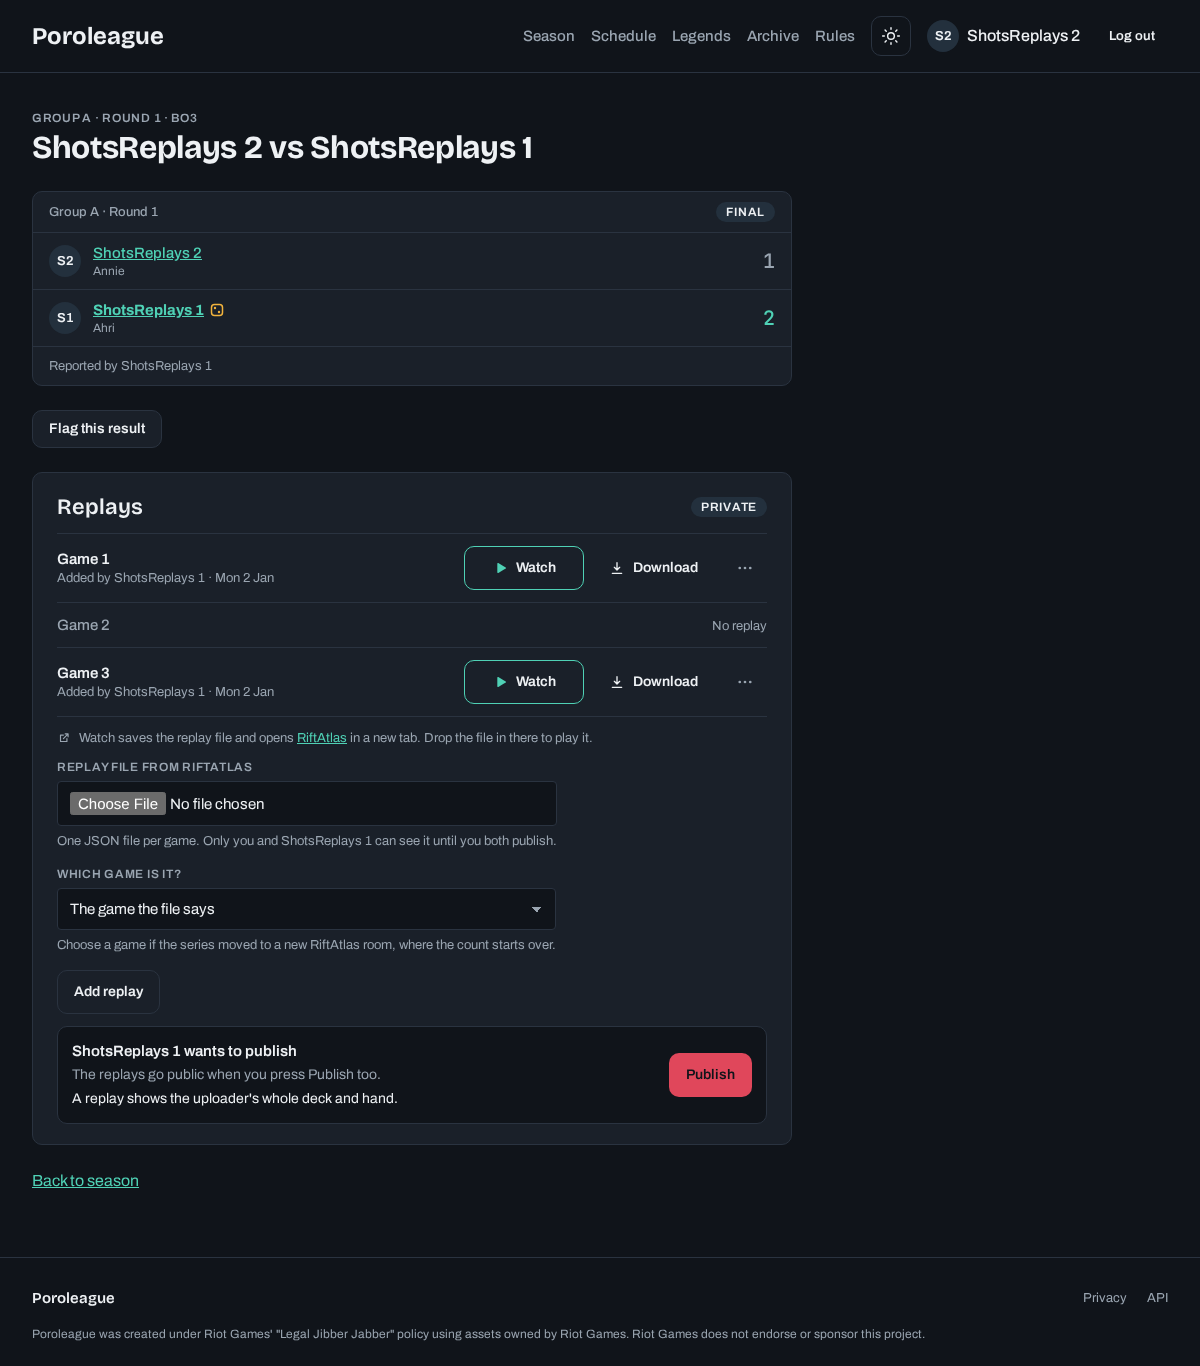
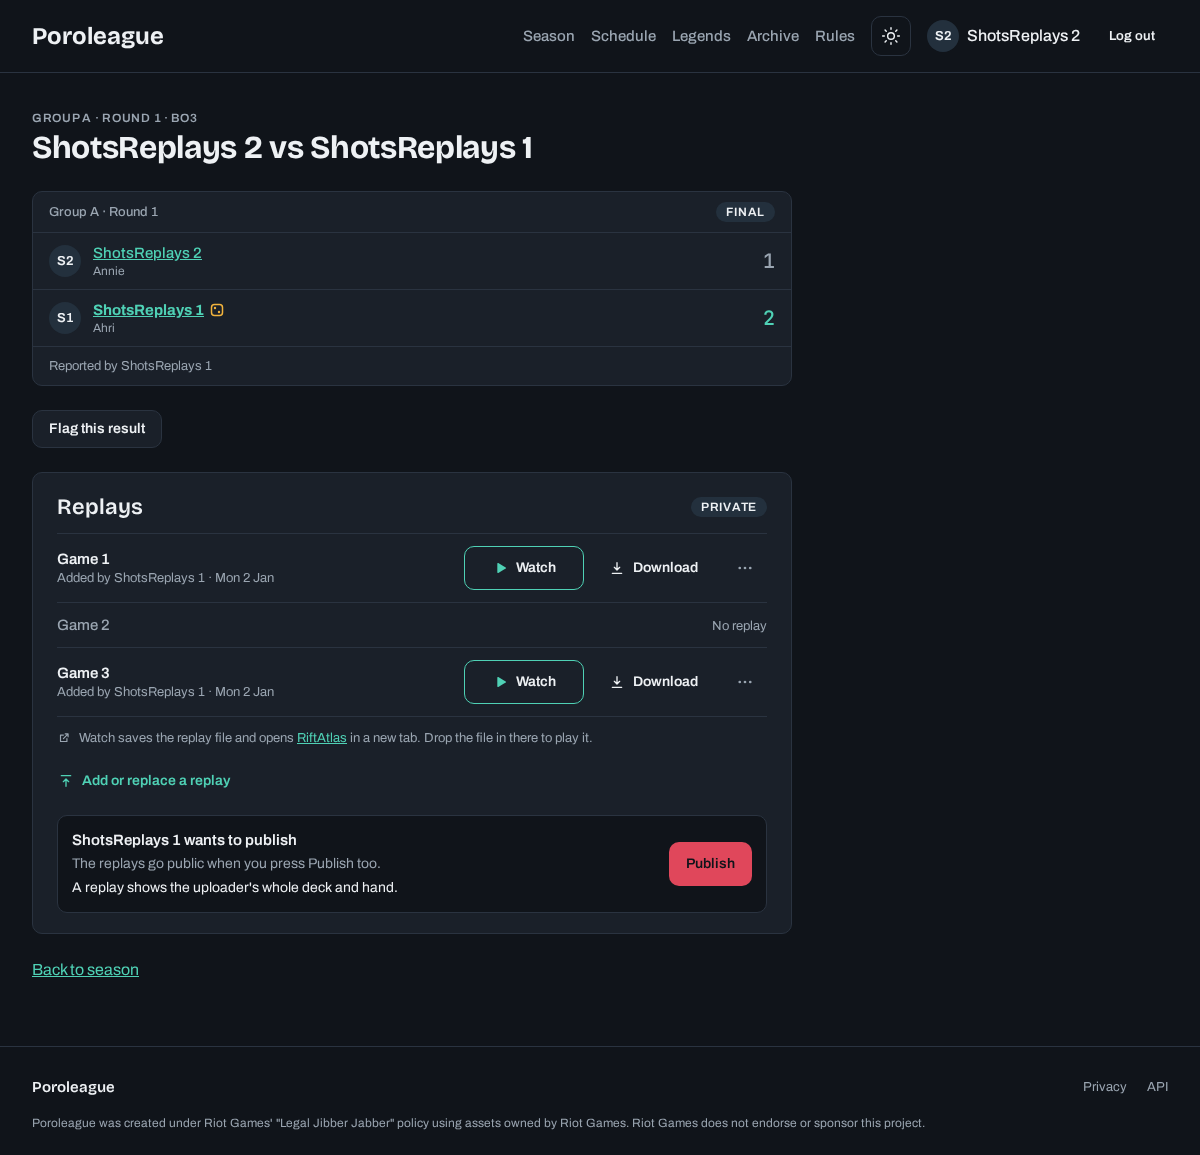
feat(replays): screenshot the upload form and the which-game step

diff --git a/shots/replays.spec.ts b/shots/replays.spec.ts
@@ -1,5 +1,5 @@
-// The replay panel in states the main pages don't show: a pressed Watch and the row menu, and one
-// player's Publish.
+// The replay panel in states the main pages don't show: a pressed Watch and the row menu, the upload
+// form and its which-game step, and one player's Publish.
 import { test } from '@playwright/test';
 import {
 	freezeTimes,
@@ -10,6 +10,7 @@ import {
 	seedSeason
 } from '../e2e/db.ts';
 import { ORGANIZER, SEASONS, player } from '../e2e/fixtures.ts';
+import { replayFile } from '../src/lib/server/test/replayFile.ts';
 import { NOW, day } from './now.ts';
 import { shot } from './shot.ts';
 
@@ -34,6 +35,29 @@ test('a match with replays, after pressing Watch', async ({ browser }) => {
 			await page.getByRole('link', { name: 'Watch game 1' }).click();
 			await page.getByRole('status').waitFor();
 			await page.getByLabel('More for game 3').click();
+		}
+	);
+	const url = `/seasons/${SEASONS.shotsReplays}/matches/${match}`;
+	await shot(browser, 'player-match-replays-upload', url, player('shotsReplays', 1), (page) =>
+		page.getByText('Add or replace a replay').click()
+	);
+	// A second file that says "game 1": nothing is stored, so both views get the same step.
+	await shot(
+		browser,
+		'player-match-replays-which',
+		url,
+		player('shotsReplays', 1),
+		async (page) => {
+			await page.getByText('Add or replace a replay').click();
+			await page.getByLabel('Replay file').setInputFiles({
+				name: 'riftatlas-replay-game-1.json',
+				mimeType: 'application/json',
+				buffer: Buffer.from(
+					replayFile({ replayId: 'room2', legends: ['Ahri, Fox', 'Annie, Fire'], completedAt: NOW })
+				)
+			});
+			await page.getByRole('button', { name: 'Upload' }).click();
+			await page.getByRole('group', { name: 'Which game is this file?' }).waitFor();
 		}
 	);
 	// One player has pressed Publish: what that player, the other one and an organizer see.
